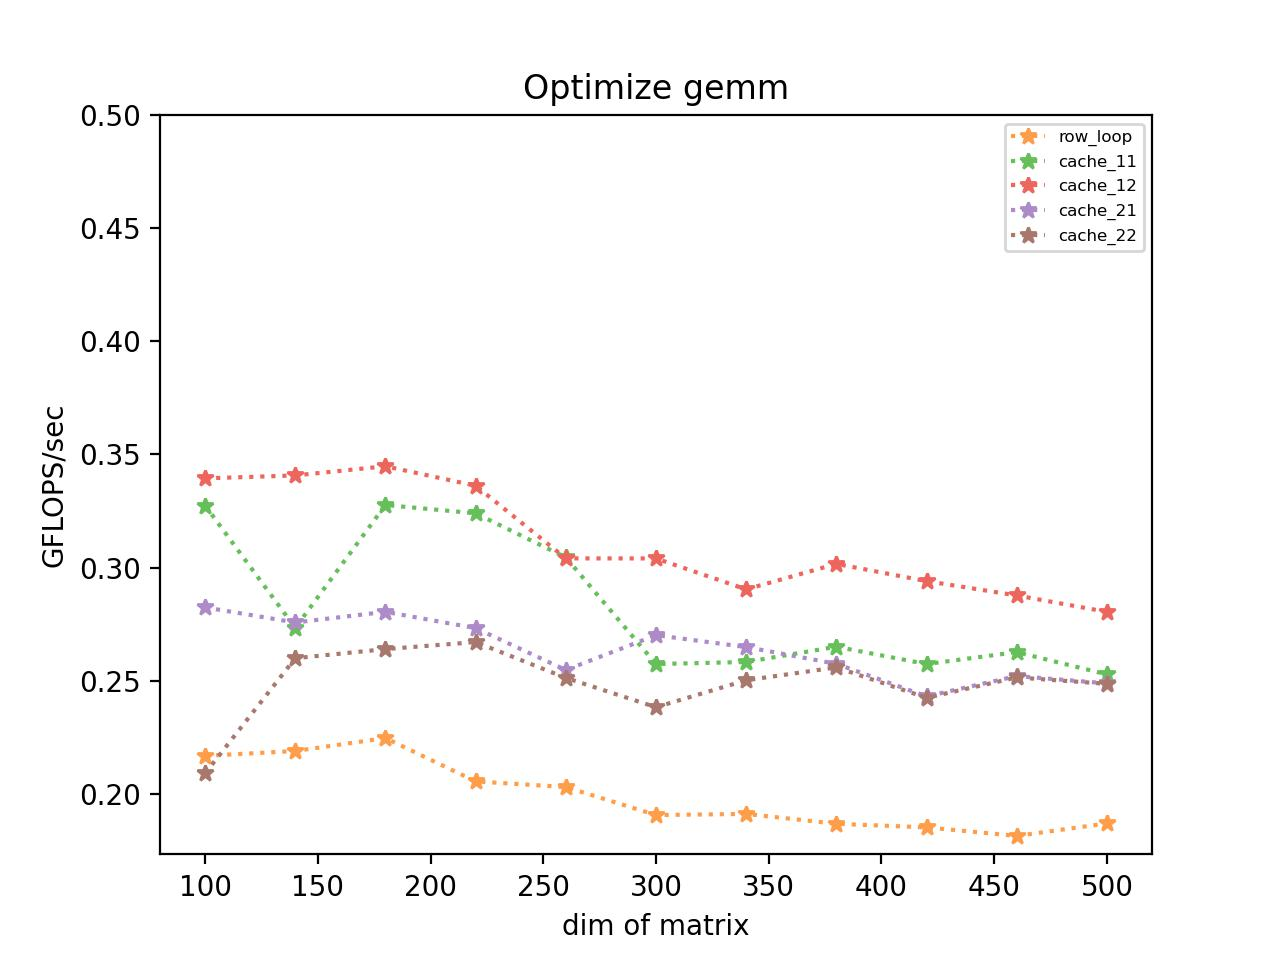
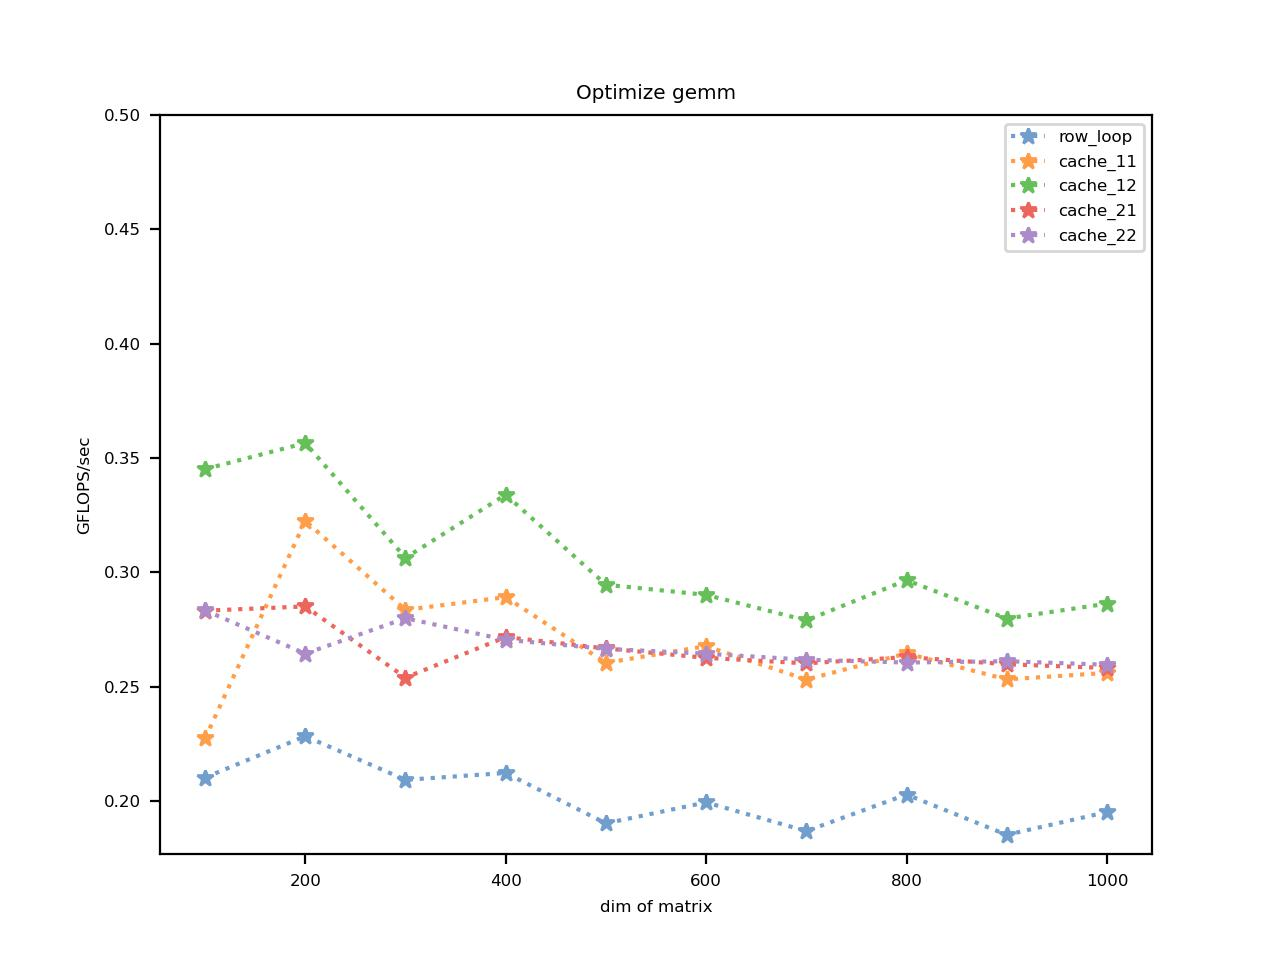
update

diff --git a/main.cpp b/main.cpp
@@ -7,7 +7,7 @@
 
 using namespace std;
 
-const int TEST_TIMES = 1;
+const int TEST_TIMES = 10;
 const int CHECK_DIM = 100;
 
 
@@ -100,8 +100,22 @@ void test_thread() {
     test(thread1, TEST_TIMES, "thread1");
 }
 
+void test_all() {
+    test(row_loop, TEST_TIMES, "row_loop");
+    test(col_loop, TEST_TIMES, "col_loop");
+    test(cache_11, TEST_TIMES, "cache_11");
+    test(cache_12, TEST_TIMES, "cache_12");
+    test(cache_21, TEST_TIMES, "cache_21");
+    test(cache_22, TEST_TIMES, "cache_22");
+    test(cache_31, TEST_TIMES, "cache_31");
+    test(cache_32, TEST_TIMES, "cache_32");
+    test(cache_33, TEST_TIMES, "cache_33");
+    test(cache_41, TEST_TIMES, "cache_41");
+    test(simd, TEST_TIMES, "simd");
+    test(thread1, TEST_TIMES, "thread1");
+}
 
 int main() {
-    test_thread();
+    test_all();
     return 0;
 }

diff --git a/visual.py b/visual.py
@@ -6,7 +6,7 @@ from palettable.tableau import TableauMedium_10
 
 
 all_file_list = ['col_loop','row_loop','cache_11','cache_12','cache_21','cache_22','cache_31','cache_32','cache_33','cache_41','simd','thread1']
-test_set = [6]
+test_set = [0,1,2,3,4,5,6]
 test_list = [[0,1],[1,2,3],[1,2,3,4,5],[1,2,3,4,5,6,7,8],[1,3,5,7,9],[1,3,5,7,9,10],[1,3,5,7,9,10,11]]
 top_list = [0.3,0.5,0.5,0.7,1.0,4.0,6]
 test_name_list = ['row_col','cache1','cache2','cache3','cache4','simd','thread1']

diff --git a/Multiplication.h b/Multiplication.h
@@ -7,6 +7,7 @@
 
 #include <thread>
 
+
 #define index(i, j) ((j)*dim+(i))
 
 void row_loop(const float *A, const float *B, float *C, int dim) {
@@ -441,4 +442,7 @@ void thread1(const float *A, const float *B, float *C, int dim) {
     th4.join();
 }
 
+void cuda(const float *A, const float *B, float *C, int dim){
+
+}
 #endif //MMO_MULTIPLICATION_H

diff --git a/utils.h b/utils.h
@@ -14,7 +14,7 @@
 using namespace std;
 
 const int MIN_DIM = 100;
-const int MAX_DIM = 2000;
+const int MAX_DIM = 1000;
 const int STEP = 100;
 
 typedef void (*mul_fun)(const float *, const float *, float *, int);
